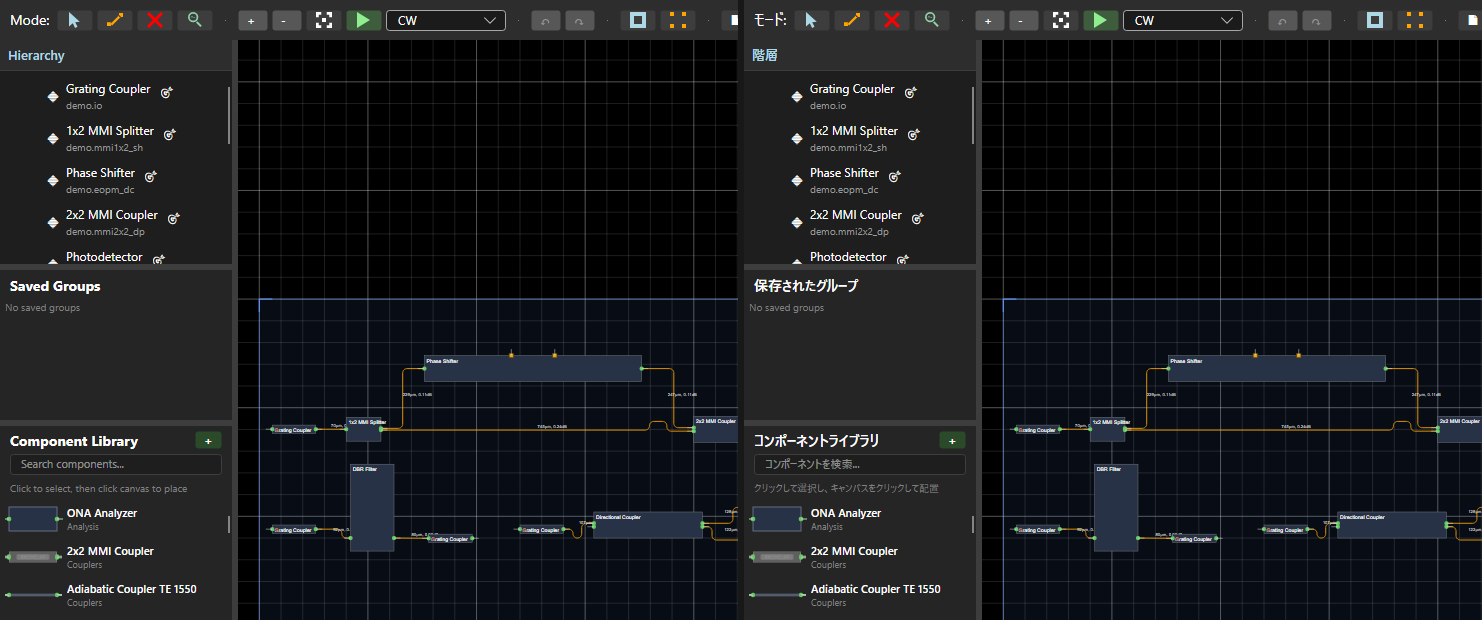
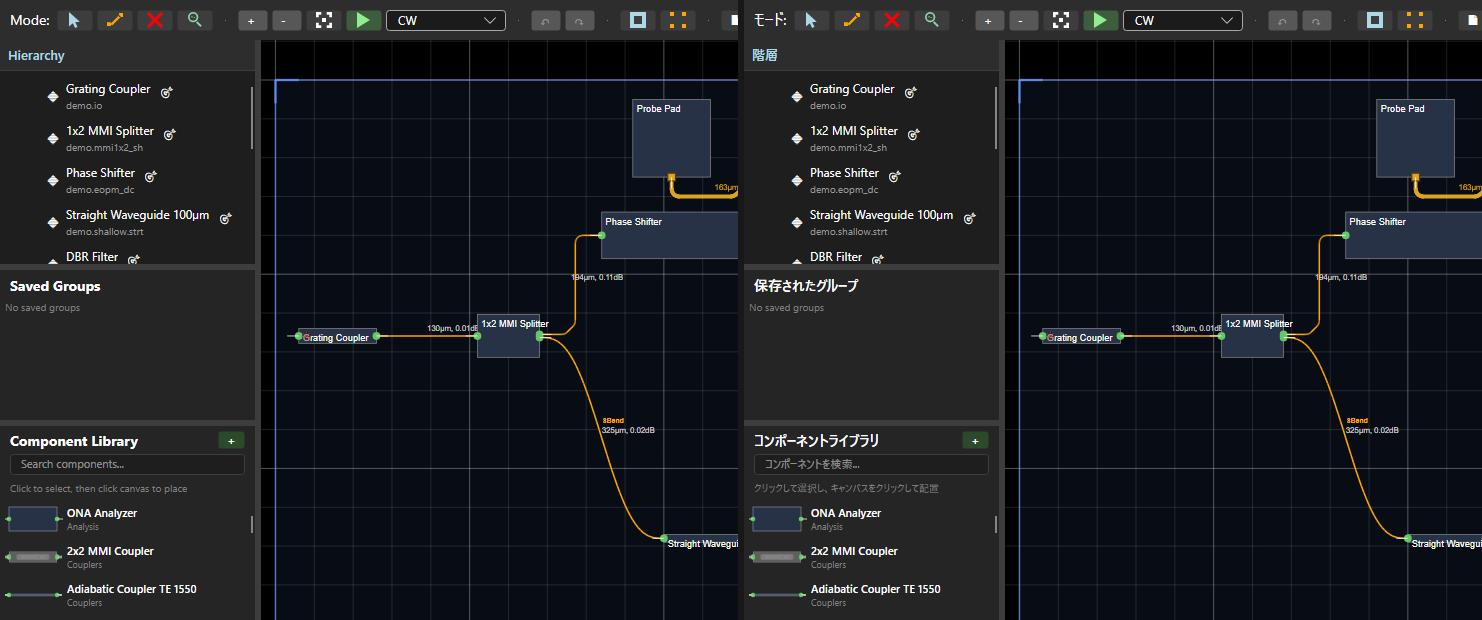
(~) Showcase: hero re-shoot — live simulation, electrical routing, diagonal paths
New staged chip (12 components): MZI with phase-shifter and DBR-filter arms,
DC probe pads (demo.pad_dc) and SiEPIC bond pads (ebeam_BondPad) wired as metal
traces to the modulator/detector contacts. Hero now runs the real CW simulation
(power-flow overlay with dB/% labels), diagonal routing is enabled with two
hand-styled connections (SBend + Bend, custom 25 µm radius), window recomposed
at 1920x950 with a compact properties column. Waveguide-editing motif is a
150% close-up of the bend handles; netlist shot now includes the electrical
connections. Metal traces label their length instead of optical power/"no
signal" (they carry no light).

Claude-Session: https://claude.ai/code/session_01PCVwvkXdUH9DSW8w12XB2q

diff --git a/UnitTests/UI/Showcase/ShowcaseCircuit.cs b/UnitTests/UI/Showcase/ShowcaseCircuit.cs
@@ -13,53 +13,76 @@ using CAP_Core.Tiles;
 namespace UnitTests.UI.Showcase;
 
 /// <summary>
-/// Stages the showcase chip — a Mach-Zehnder interferometer plus a DBR-filter and a
-/// directional-coupler test structure, built entirely from real bundled Demo-PDK components
-/// and wired through the production router — and boots the real MainWindow around it.
+/// Stages the showcase chip — a Mach-Zehnder interferometer with a thermo-optic phase
+/// shifter in the top arm and a DBR filter in the bottom arm, plus a DC electrical block
+/// (probe pads on the modulator contacts, bond pads on the photodetector diode) wired as
+/// metal traces — built entirely from real bundled PDK components and routed through the
+/// production router with diagonal pathfinding enabled. Boots the real MainWindow around it.
 /// </summary>
 internal static class ShowcaseCircuit
 {
     public const string PdkName = "Demo PDK";
 
+    /// <summary>The SiEPIC bundled PDK, source of the purely electrical Bond Pad.</summary>
+    public const string SiepicPdkName = "SiEPIC EBeam PDK";
+
     /// <summary>World-space (µm) bounding box of the staged chip, for view fitting.</summary>
-    private static readonly (double X, double Y, double W, double H) Extent = (20, 110, 1450, 500);
+    private static readonly (double X, double Y, double W, double H) Extent = (20, 15, 1510, 595);
+
+    /// <summary>Canvas pixels kept above the chip origin by <see cref="FitView"/> — the
+    /// wide staged chip leaves vertical slack, which should show chip area, not the void
+    /// above the wafer.</summary>
+    private const double ChipTopMarginPx = 40;
 
     /// <summary>
-    /// Places the showcase chip onto <paramref name="vm"/>'s canvas and routes everything.
-    /// Returns the MZI's bottom compensating arm — the waveguide-editing motif's subject.
+    /// Places the showcase chip onto <paramref name="vm"/>'s canvas and routes everything
+    /// (diagonal pathfinding on, two connections manually styled). Returns the MZI's
+    /// bottom-arm DBR→combiner link — the waveguide-editing motif's subject.
     /// </summary>
     public static async Task<WaveguideConnectionViewModel> BuildChipAsync(MainViewModel vm)
     {
         var canvas = vm.Canvas;
+        canvas.UseDiagonalRouting = true;
 
-        // Row 1: the Mach-Zehnder interferometer.
-        var gcIn = Place(vm, "Grating Coupler", 30, 290);
-        var splitter = Place(vm, "1x2 MMI Splitter", 200, 272);
-        var shifter = Place(vm, "Phase Shifter", 380, 130);
-        var combiner = Place(vm, "2x2 MMI Coupler", 1000, 270);
-        var detector = Place(vm, "Photodetector", 1330, 150);
-        var gcOut = Place(vm, "Grating Coupler", 1360, 370, DiscreteRotation.R180);
+        // The MZI: input coupler → 1x2 splitter → phase-shifter arm / DBR-filter arm →
+        // 2x2 combiner → photodetector (bar) + output coupler (cross).
+        var gcIn = Place(vm, "Grating Coupler", 30, 320);
+        var splitter = Place(vm, "1x2 MMI Splitter", 260, 302);
+        var shifter = Place(vm, "Phase Shifter", 420, 170);
+        var strt = Place(vm, "Straight Waveguide 100µm", 500, 585);
+        var dbr = Place(vm, "DBR Filter", 700, 420);
+        var combiner = Place(vm, "2x2 MMI Coupler", 990, 300);
+        var detector = Place(vm, "Photodetector", 1310, 170);
+        var gcOut = Place(vm, "Grating Coupler", 1280, 480, DiscreteRotation.R180);
+
+        // Only the input coupler injects light; the output coupler listens (#690), which
+        // also makes it the transient analysis output.
+        gcOut.LaserEnabled = false;
+
         await Connect(canvas, gcIn, "waveguide", splitter, "in");
         await Connect(canvas, splitter, "out1", shifter, "in");
         await Connect(canvas, shifter, "out", combiner, "in1");
-        var bottomArm = await Connect(canvas, splitter, "out2", combiner, "in2");
+        var intoDbr = await Connect(canvas, splitter, "out2", strt, "a0");
+        await Connect(canvas, strt, "b0", dbr, "in");
+        var bottomArm = await Connect(canvas, dbr, "out", combiner, "in2");
         await Connect(canvas, combiner, "out1", detector, "in");
-        await Connect(canvas, combiner, "out2", gcOut, "waveguide");
+        var toOutput = await Connect(canvas, combiner, "out2", gcOut, "waveguide");
 
-        // Row 2: DBR-filter and directional-coupler test structures.
-        var gcB1 = Place(vm, "Grating Coupler", 30, 520);
-        var dbr = Place(vm, "DBR Filter", 210, 380);
-        var gcB2 = Place(vm, "Grating Coupler", 390, 541, DiscreteRotation.R180);
-        await Connect(canvas, gcB1, "waveguide", dbr, "in");
-        await Connect(canvas, dbr, "out", gcB2, "waveguide");
+        // The DC electrical block: probe pads drive the phase-shifter heater contacts,
+        // bond pads contact the photodetector diode — all as thick metal traces.
+        var probe1 = Place(vm, "Probe Pad", 460, 25, DiscreteRotation.R180);
+        var probe2 = Place(vm, "Probe Pad", 640, 25, DiscreteRotation.R180);
+        var bond1 = Place(vm, "Bond Pad", 1120, 25, DiscreteRotation.R180, SiepicPdkName);
+        var bond2 = Place(vm, "Bond Pad", 1430, 25, DiscreteRotation.R180, SiepicPdkName);
+        await Connect(canvas, probe1, "pad", shifter, "elec1");
+        await Connect(canvas, probe2, "pad", shifter, "elec2");
+        await Connect(canvas, bond1, "elec", detector, "anode");
+        await Connect(canvas, bond2, "elec", detector, "cathode");
 
-        var gcC1 = Place(vm, "Grating Coupler", 600, 520);
-        var coupler = Place(vm, "Directional Coupler", 770, 490);
-        var gcC2 = Place(vm, "Grating Coupler", 1120, 470, DiscreteRotation.R180);
-        var gcC3 = Place(vm, "Grating Coupler", 1120, 545, DiscreteRotation.R180);
-        await Connect(canvas, gcC1, "waveguide", coupler, "in1");
-        await Connect(canvas, coupler, "out1", gcC2, "waveguide");
-        await Connect(canvas, coupler, "out2", gcC3, "waveguide");
+        // Two hand-styled waveguides (#755): the splitter→DBR drop as a sine S-curve and
+        // the combiner→output link as a single arc with a custom 25 µm bend radius.
+        await StyleConnection(canvas, intoDbr, WaveguideType.SBend);
+        await StyleConnection(canvas, toOutput, WaveguideType.Bend, bendRadiusMicrometers: 25);
 
         await WaitForRoutingIdleAsync(canvas);
         return bottomArm;
@@ -79,10 +102,16 @@ internal static class ShowcaseCircuit
         vm.FileOperations.SetActiveProcess(ActiveProcessSelection.Playground(), markDirty: false);
         var bottomArm = await BuildChipAsync(vm);
 
-        var window = new MainWindow { Width = 1480, Height = 950 };
+        var window = new MainWindow { Width = 1920, Height = 950 };
         window.Show();
         Dispatcher.UIThread.RunJobs();
         window.DataContext = vm;
+        Dispatcher.UIThread.RunJobs();
+
+        // Give the canvas the space a designer would: the properties column at a compact
+        // width instead of its content-driven maximum.
+        window.GetVisualDescendants().OfType<global::Avalonia.Controls.Border>()
+            .First(b => b.Name == "RightPanelBorder").Width = 420;
         Dispatcher.UIThread.RunJobs();
 
         FitView(window, vm);
@@ -91,9 +120,17 @@ internal static class ShowcaseCircuit
         return (vm, window, bottomArm);
     }
 
-    /// <summary>Fits the whole staged chip into the design canvas (zoom + pan).</summary>
-    public static void FitView(MainWindow window, MainViewModel vm) =>
+    /// <summary>Fits the whole staged chip into the design canvas (zoom + pan), keeping
+    /// the vertical slack below the circuit (inside the chip) instead of above the wafer.</summary>
+    public static void FitView(MainWindow window, MainViewModel vm)
+    {
         SetView(window, vm, Extent);
+        if (vm.Canvas.PanY <= ChipTopMarginPx) return;
+        vm.Canvas.PanY = ChipTopMarginPx;
+        window.GetVisualDescendants()
+            .OfType<CAP.Avalonia.Controls.DesignCanvas>().First().InvalidateVisual();
+        Dispatcher.UIThread.RunJobs();
+    }
 
     /// <summary>Zooms onto a world-space region (µm) — for close-up motifs.</summary>
     public static void SetView(
@@ -140,16 +177,31 @@ internal static class ShowcaseCircuit
     }
 
     /// <summary>
-    /// Instantiates a bundled Demo-PDK template at world position (µm), applying the
+    /// Applies a manual routing style (and optional custom bend radius) to a connection —
+    /// the staged equivalent of picking a style in the Routing panel (#755).
+    /// </summary>
+    private static async Task StyleConnection(
+        DesignCanvasViewModel canvas, WaveguideConnectionViewModel connection,
+        WaveguideType style, double? bendRadiusMicrometers = null)
+    {
+        if (bendRadiusMicrometers is { } radius)
+            connection.Connection.BendRadiusMicrometers = radius;
+        connection.Connection.Type = style;
+        connection.Connection.InvalidateRoute();
+        await canvas.RecalculateRoutesAsync();
+    }
+
+    /// <summary>
+    /// Instantiates a bundled PDK template at world position (µm), applying the
     /// requested rotation through the production <see cref="CAP.Avalonia.Commands.RotateComponentCommand"/>
     /// (which also rotates the physical-pin offsets — the raw rotation property does not).
     /// </summary>
     private static Component Place(
         MainViewModel vm, string templateName, double x, double y,
-        DiscreteRotation rotation = DiscreteRotation.R0)
+        DiscreteRotation rotation = DiscreteRotation.R0, string pdkSource = PdkName)
     {
         var template = vm.LeftPanel.AllTemplates
-            .First(t => t.PdkSource == PdkName && t.Name == templateName);
+            .First(t => t.PdkSource == pdkSource && t.Name == templateName);
         var component = ComponentTemplates.CreateFromTemplate(template, x, y);
         var componentVm = vm.Canvas.AddComponent(component, template.Name, template.PdkSource);
 
@@ -163,7 +215,8 @@ internal static class ShowcaseCircuit
         return component;
     }
 
-    /// <summary>Connects two named physical pins through the production routing pipeline.</summary>
+    /// <summary>Connects two named physical pins through the production routing pipeline —
+    /// optical pairs become waveguides, electrical pairs metal traces.</summary>
     private static async Task<WaveguideConnectionViewModel> Connect(
         DesignCanvasViewModel canvas, Component from, string fromPin, Component to, string toPin)
     {

diff --git a/UnitTests/UI/Showcase/ShowcaseScreenshotTests.cs b/UnitTests/UI/Showcase/ShowcaseScreenshotTests.cs
@@ -30,7 +30,15 @@ public class ShowcaseScreenshotTests
         await ShowcaseCapture.WithEnglishUiAsync(async () =>
         {
             var (vm, window, _) = await ShowcaseCircuit.BootStagedMainWindowAsync();
-            vm.Canvas.Connections.Count.ShouldBe(11);
+            vm.Canvas.Connections.Count.ShouldBe(12);
+
+            // Run the real CW S-matrix simulation (the input coupler's laser drives the
+            // chip) so the hero shows the live power-flow overlay on every waveguide.
+            await vm.RunSimulationCommand.ExecuteAsync(null);
+            Dispatcher.UIThread.RunJobs();
+            vm.Canvas.ShowPowerFlow.ShouldBeTrue("the CW run must enable the power-flow overlay");
+            vm.Canvas.PowerFlowVisualizer.CurrentResult.ShouldNotBeNull();
+
             ShowcaseCapture.CaptureWindow(
                 window, Path.Combine(ShowcaseCapture.OutputDirectory(), "hero-canvas.png"));
             window.Close();
@@ -46,7 +54,7 @@ public class ShowcaseScreenshotTests
         {
             var (vm, window, bottomArm) = await ShowcaseCircuit.BootStagedMainWindowAsync();
 
-            // Select the long compensating arm like a user clicking it: the canvas draws the
+            // Select the DBR→combiner arm like a user clicking it: the canvas draws the
             // blue bend-radius handles and the Routing style section opens.
             vm.CanvasInteraction.SelectedWaveguideConnection = bottomArm;
             Dispatcher.UIThread.RunJobs();
@@ -55,7 +63,7 @@ public class ShowcaseScreenshotTests
             bottomArm.Connection.Type.ShouldBe(WaveguideType.Bend);
 
             // Zoom onto the edited arm so the screen-constant handles read clearly.
-            ShowcaseCircuit.SetView(window, vm, (240, 220, 1100, 330));
+            ShowcaseCircuit.SetView(window, vm, (610, 300, 660, 340));
             vm.StatusText = "Ready";
             ShowcaseCapture.CaptureWindow(
                 window, Path.Combine(ShowcaseCapture.OutputDirectory(), "waveguide-editing.png"));

diff --git a/CAP.Avalonia/Controls/Rendering/WaveguideConnectionRenderer.cs b/CAP.Avalonia/Controls/Rendering/WaveguideConnectionRenderer.cs
@@ -168,7 +168,15 @@ public sealed class WaveguideConnectionRenderer : ICanvasRenderer
         string labelText;
         IBrush labelBrush;
 
-        if (vm.ShowPowerFlow && vm.PowerFlowVisualizer.CurrentResult != null)
+        // Metal traces carry no optical power, so neither the power-flow figures nor an
+        // optical loss make sense on them — label them with their length only, in the
+        // electrical copper/gold tint (#682).
+        if (IsElectricalTrace(conn))
+        {
+            labelText = $"{conn.PathLength:F0}µm";
+            labelBrush = new SolidColorBrush(ElectricalTraceColor);
+        }
+        else if (vm.ShowPowerFlow && vm.PowerFlowVisualizer.CurrentResult != null)
         {
             var flow = vm.PowerFlowVisualizer.GetFlowForConnection(conn.Connection.Id);
             if (flow != null && flow.AveragePower > 0)
